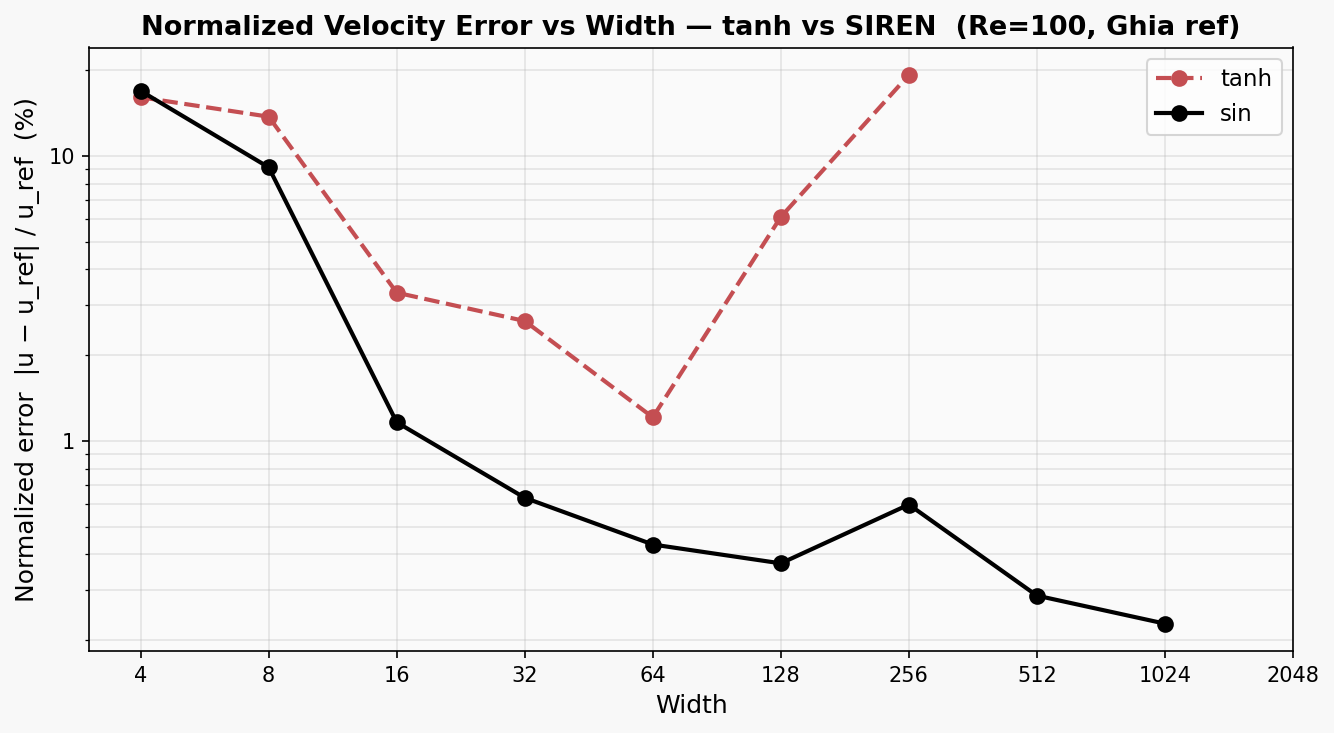
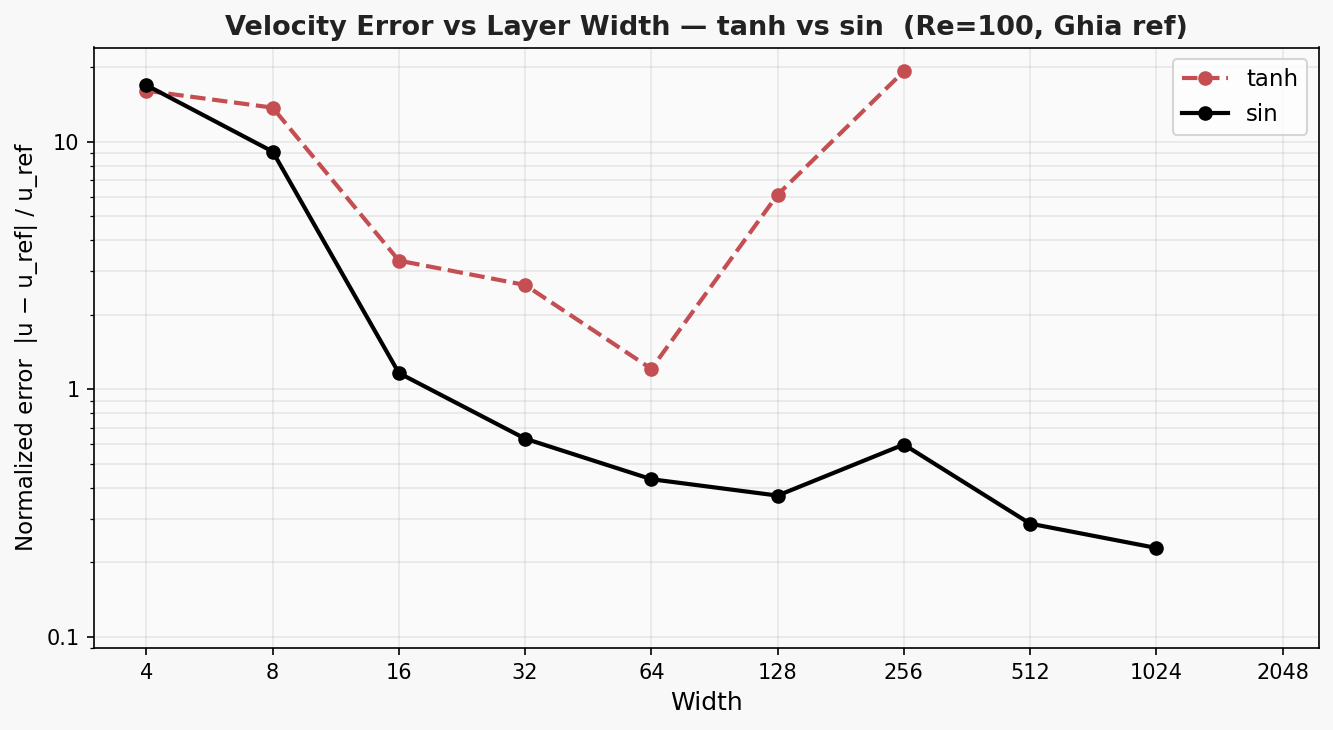
Add make_error_fig.py; update error vs width figure

diff --git a/make_error_fig.py b/make_error_fig.py
@@ -1,0 +1,57 @@
+"""Generate assets/error_vs_width.png — normalized velocity error vs width."""
+import numpy as np
+import matplotlib
+matplotlib.use('Agg')
+import matplotlib.pyplot as plt
+import matplotlib.ticker as ticker
+
+GHIA_REF = 0.737220
+
+# ── tanh baseline ──────────────────────────────────────────────────────────────
+tanh_widths = [4, 8, 16, 32, 64, 128, 256]
+tanh_ughi   = [0.618789, 0.636039, 0.712834, 0.717778, 0.728309, 0.692204, 0.595371]
+
+# ── sin sweep ──────────────────────────────────────────────────────────────────
+sin_widths = [4, 8, 16, 32, 64, 128, 256, 512, 1024]
+sin_ughi   = [0.612545, 0.669994, 0.728651, 0.741875, 0.740412,
+              0.739961, 0.741628, 0.739332, 0.738904]
+
+def norm_err_pct(u_pred):
+    return abs(u_pred - GHIA_REF) / GHIA_REF * 100
+
+tanh_err = [norm_err_pct(u) for u in tanh_ughi]
+sin_err  = [norm_err_pct(u) for u in sin_ughi]
+
+TANH_COLOR = "#C44E52"
+SIN_COLOR  = "black"
+
+fig, ax = plt.subplots(figsize=(9, 5))
+fig.patch.set_facecolor("#F8F8F8")
+ax.set_facecolor("#FAFAFA")
+
+ax.plot(tanh_widths, tanh_err, color=TANH_COLOR, lw=2.0, linestyle="--",
+        marker="o", markersize=6, label="tanh")
+ax.plot(sin_widths,  sin_err,  color=SIN_COLOR,  lw=2.0, linestyle="-",
+        marker="o", markersize=6, label="sin")
+
+ax.set_xscale("log", base=2)
+ax.set_yscale("log")
+ax.set_ylim(bottom=0.09)
+ax.set_xlim(left=3, right=2500)
+
+ax.set_xticks([4, 8, 16, 32, 64, 128, 256, 512, 1024, 2048])
+ax.xaxis.set_major_formatter(ticker.FuncFormatter(lambda v, _: str(int(v))))
+ax.yaxis.set_major_formatter(ticker.FuncFormatter(lambda v, _: f"{v:g}"))
+
+ax.set_xlabel("Width", fontsize=12)
+ax.set_ylabel("Normalized error  |u − u_ref| / u_ref", fontsize=11)
+ax.set_title("Velocity Error vs Layer Width — tanh vs sin  (Re=100, Ghia ref)",
+             fontsize=13, fontweight="bold", color="#222222")
+ax.legend(fontsize=11)
+ax.grid(True, which="both", alpha=0.25)
+
+plt.tight_layout()
+out = "assets/error_vs_width.png"
+fig.savefig(out, dpi=150, bbox_inches="tight", facecolor=fig.get_facecolor())
+print(f"Saved → {out}")
+plt.close(fig)
